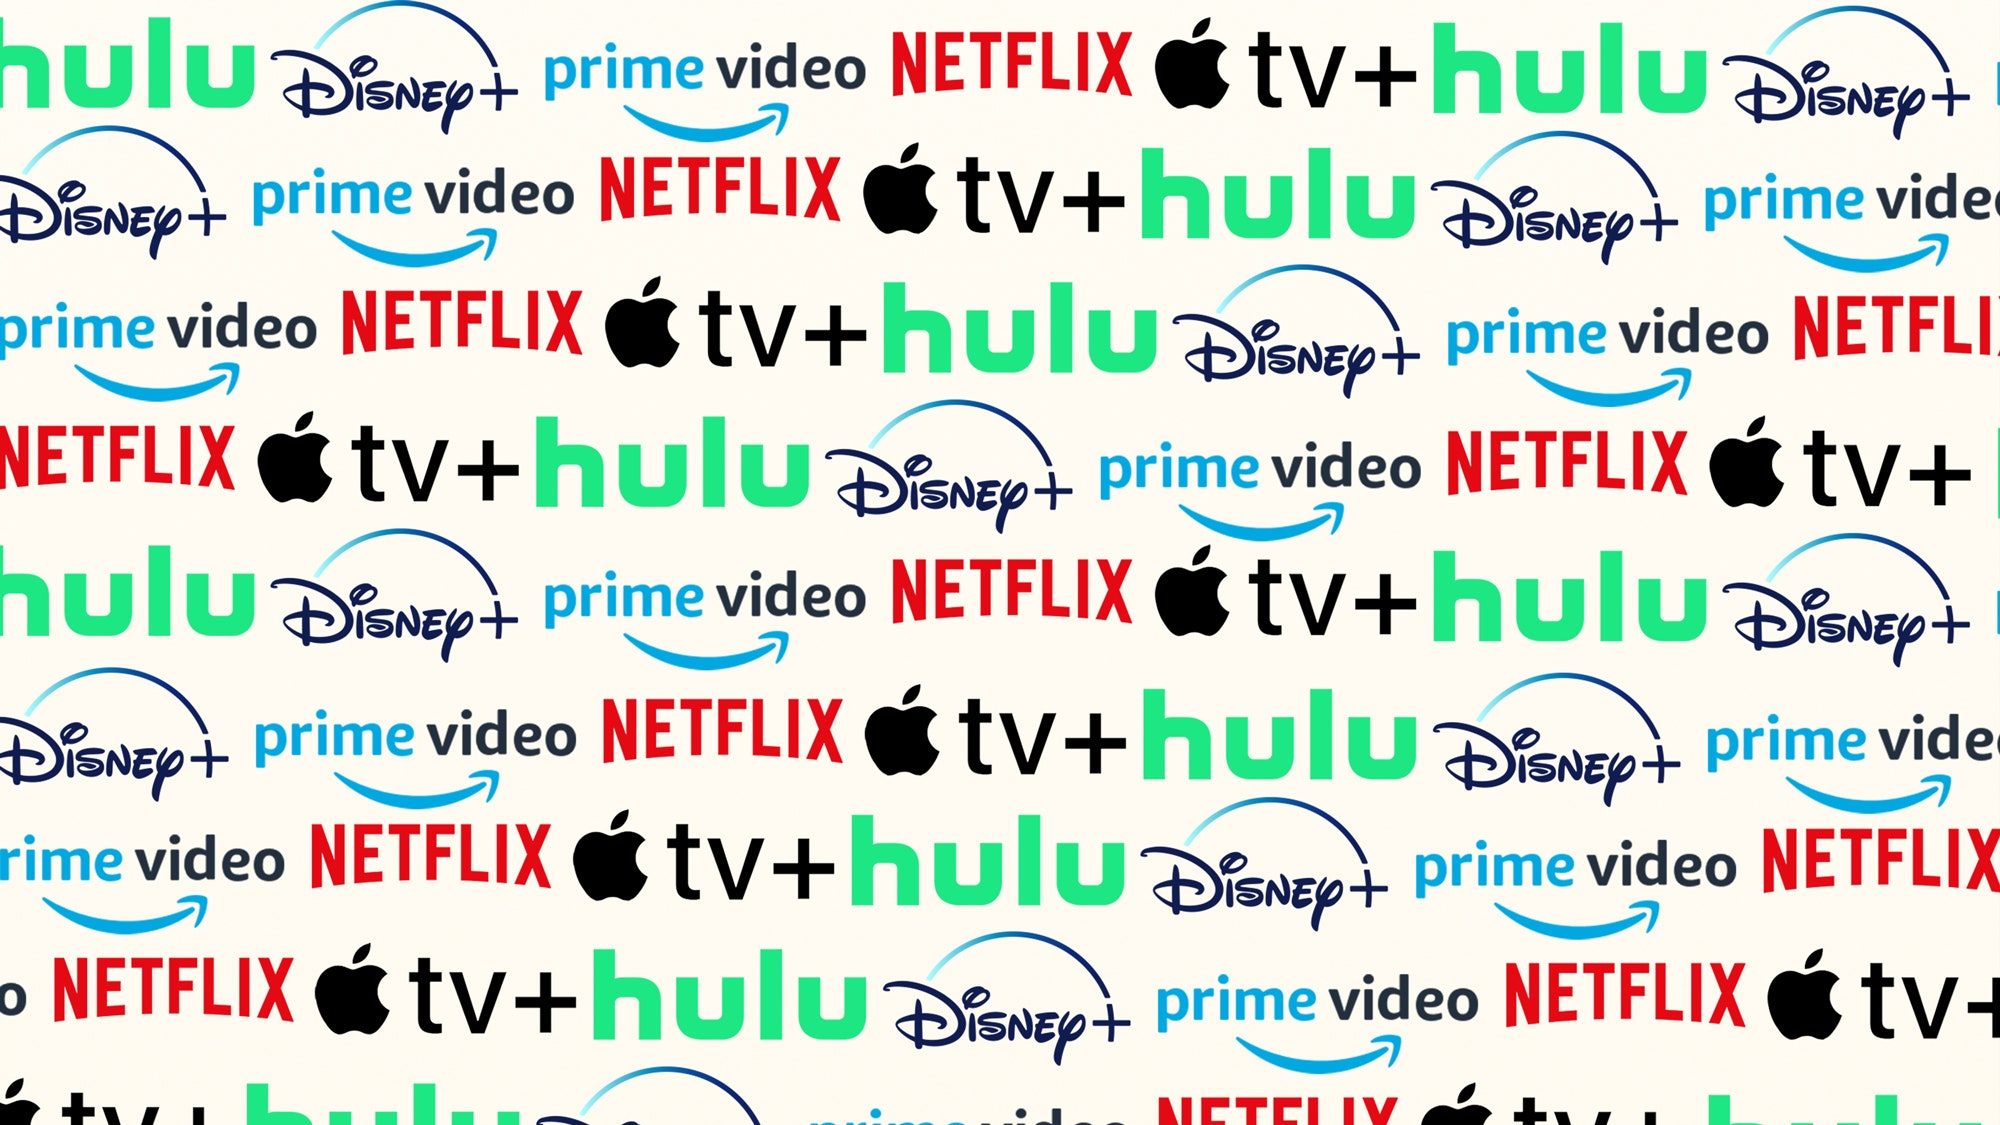
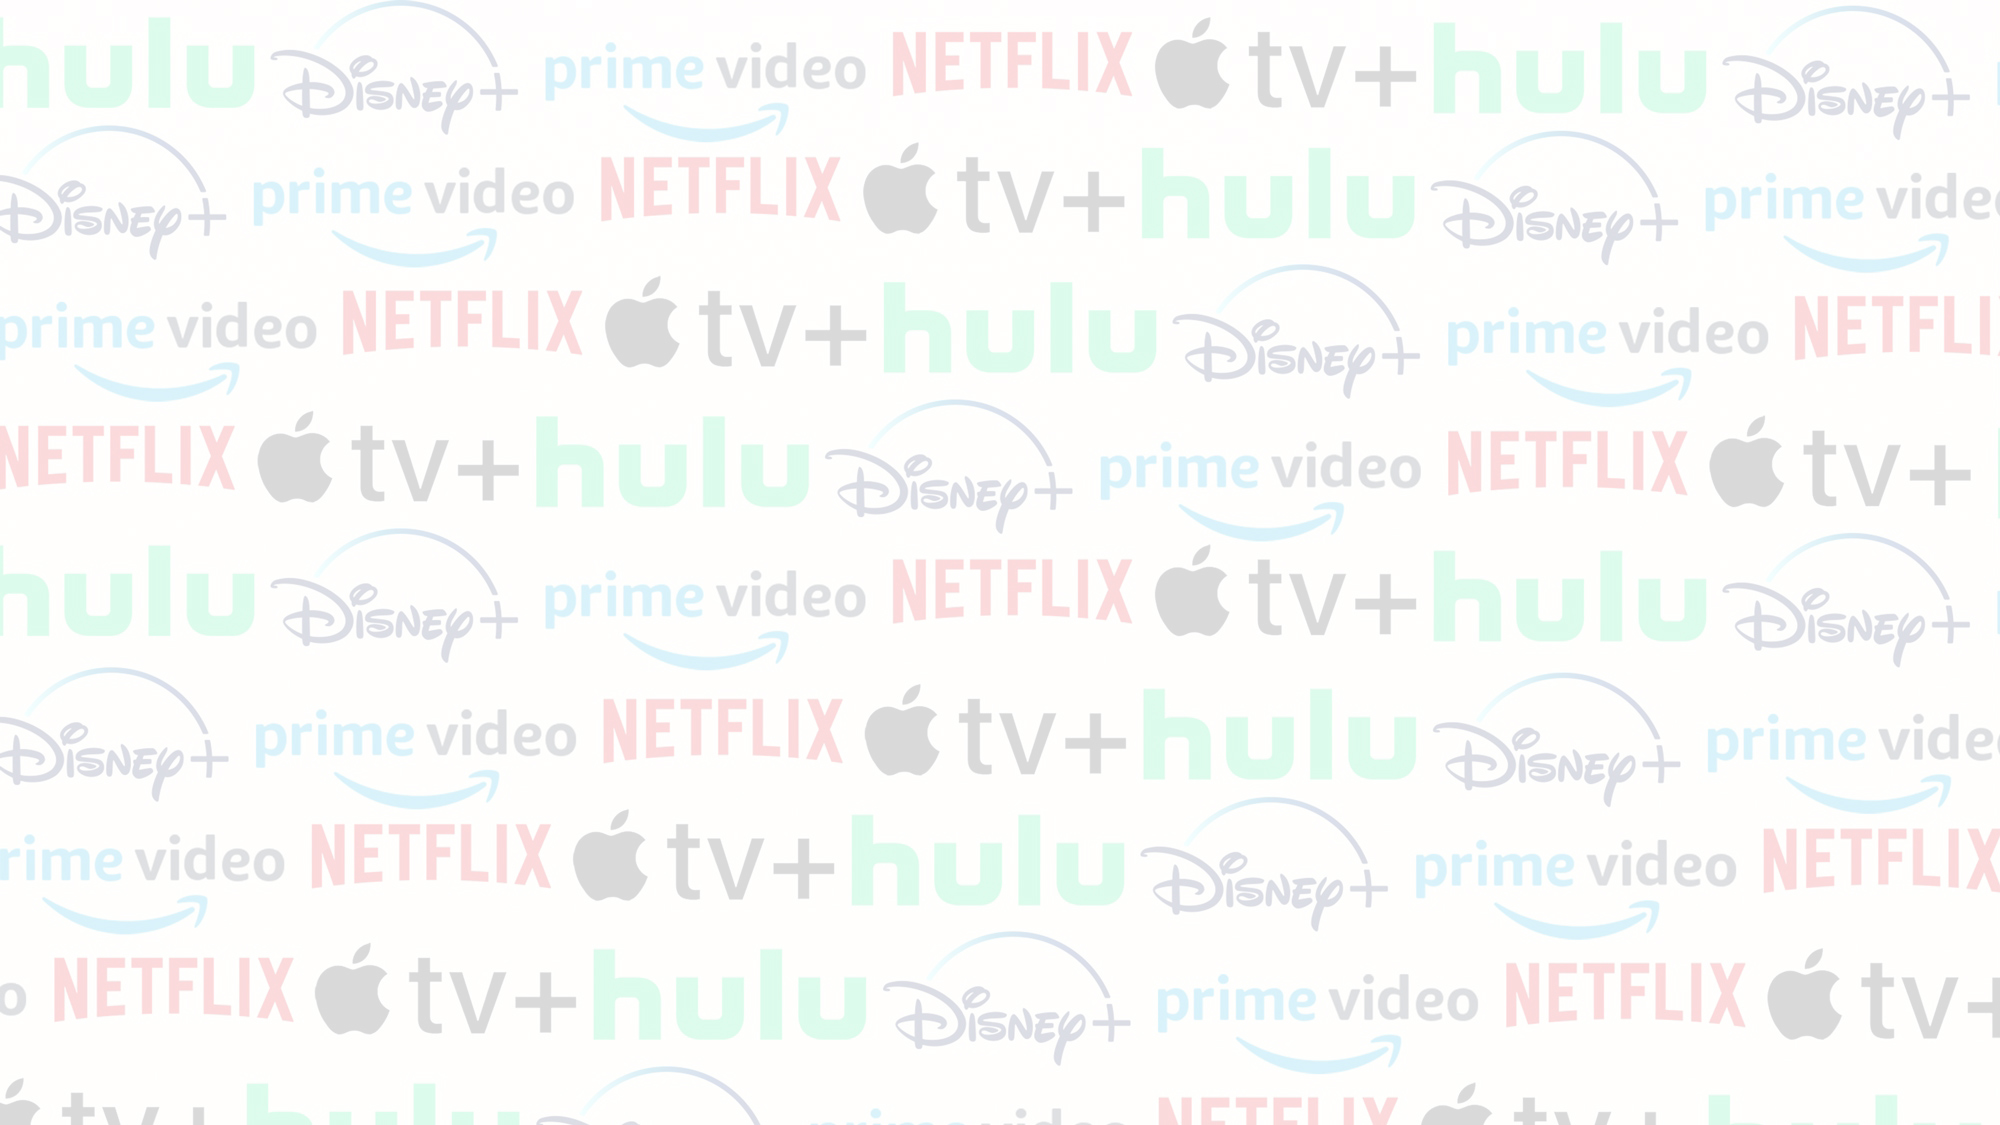
dashboard

Changed region(s): [[0.0, 0.0, 1.0, 1.0], [0.0, 0.9644, 0.341, 1.0], [0.899, 0.0, 0.961, 0.0311]]

diff --git a/src/components/dash.vue b/src/components/dash.vue
@@ -1,5 +1,17 @@
 <template>
     <div class="container">
+        <div class="box">
+            <div class="row">
+                <div class="col-sm bill-box">
+                    <h3><span class="name">Name: {{name}} </span> </h3>
+                </div>
+                <div class="col-sm bill-box">
+                   <h3> <span class="time">Time:{{ timestamp }}</span></h3>
+                </div>
+            </div>
+
+        </div>
+        <br><br>
         <div class="bill">
             <h1>Billing</h1>
             <hr>
@@ -45,10 +57,24 @@
         name: "dash",
         data(){
             return {
+                timestamp: "",
+                name: 'Vinayak Sharma',
                 logos: ["disney.jpg","hulu.png","netflix.jpg","prime.png"],
               monthly: 10,
               yearly: 120,
             };
+        },
+        created() {
+            setInterval(this.getNow, 1000);
+        },
+        methods: {
+            getNow: function() {
+                const today = new Date();
+                const date = today.getFullYear()+'-'+(today.getMonth()+1)+'-'+today.getDate();
+                const time = today.getHours() + ":" + today.getMinutes() + ":" + today.getSeconds();
+                const dateTime = date +' '+ time;
+                this.timestamp = dateTime;
+            }
         }
     }
 </script>
@@ -89,4 +115,10 @@ hr{
 ul li {
     display:inline;
 }
+    .box{
+        background-color: rgba(34, 139, 230,0.5);
+        border-radius: 15px;
+        box-shadow: 10px 10px 54px -6px rgba(0, 0, 0, 0.75);
+        text-align: center;
+    }
 </style>

diff --git a/src/components/billing.vue b/src/components/billing.vue
@@ -68,6 +68,9 @@
                 year: [{
                     name: 'Prime',
                     cost: 1000
+                },{
+                    name: 'youtube',
+                    cost: 1200
                 }]
             };
         },

diff --git a/src/views/dashboard.vue b/src/views/dashboard.vue
@@ -69,4 +69,10 @@
     a{
         cursor: pointer;
     }
+    
+    #app{
+        background-image: url("../assets/sbg.jpg");
+        width: 100%;
+        z-index: 0;
+    }
 </style>
